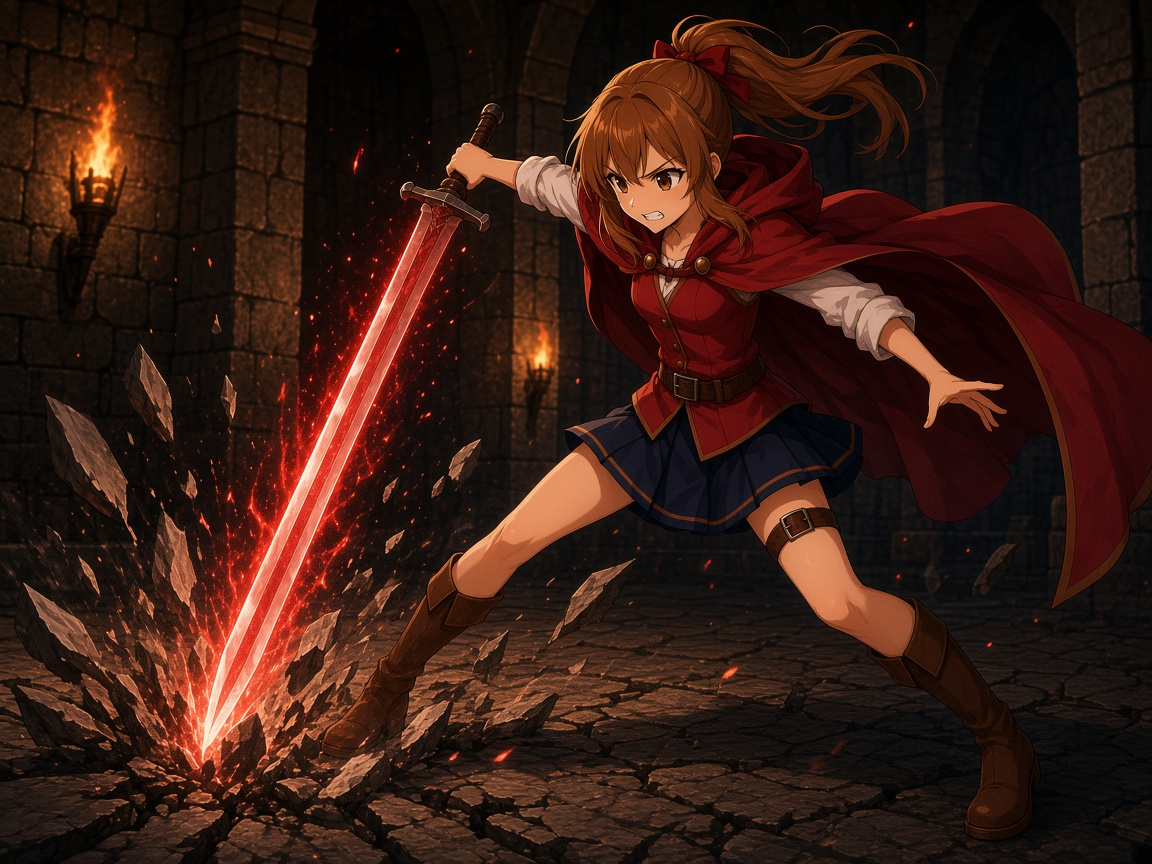
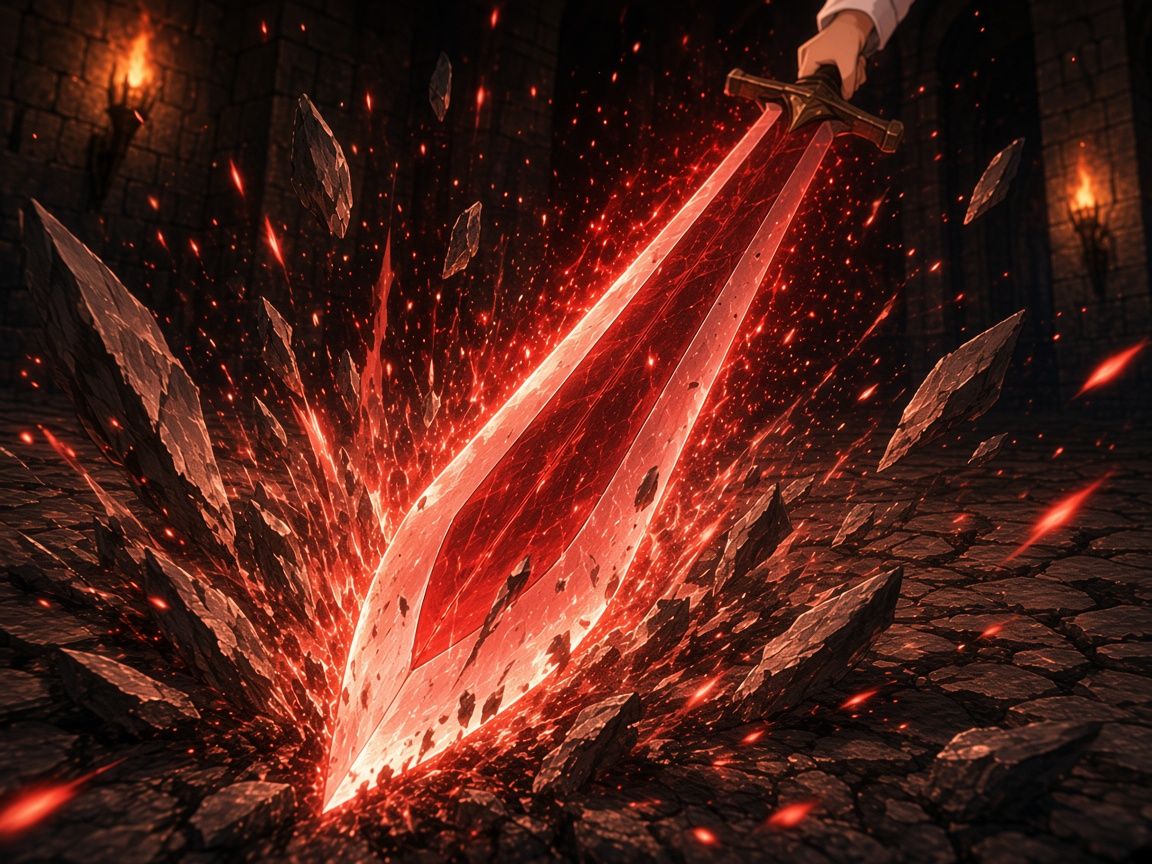
マナの数字をさらに右へ1px、1px大きくする。ビッグアタックの絵も試作に合わせる。

diff --git a/index.html b/index.html
@@ -5279,11 +5279,11 @@
       pointer-events: none;
     }
     .card .card-fit .cost {
-      left: 11.198cqw;
+      left: 11.328cqw;
       top: 11.400cqw;
       transform: translate(-50%, -50%);
-      width: 8.520cqw;
-      height: 8.520cqw;
+      width: 8.651cqw;
+      height: 8.651cqw;
       display: grid;
       place-items: center;
       line-height: 1;
@@ -5294,7 +5294,7 @@
       box-shadow: none;
       color: #fffef8;
       font-family: "Source Han Serif", "源ノ明朝", "Noto Serif JP", "Yu Mincho", serif;
-      font-size: 7.320cqw;
+      font-size: 7.451cqw;
       font-weight: 900;
       -webkit-text-stroke: 0;
       text-shadow: 0 1px 0 #140c08, 0 0 2px #140c08;
@@ -10264,7 +10264,7 @@
       超集中: "card-ultra-focus-v6.jpg?v=1",
       シールドアタック: "card-shield-attack.jpg?v=2",
       キック: "card-kick-leg.jpg?v=2",
-      ビッグアタック: "card-big-attack-smash.jpg?v=1",
+      ビッグアタック: "card-big-attack-smash.jpg?v=2",
       クイックステップ: "card-quick-step.jpg?v=2",
       魔法のパリィ: "card-magic-parry.jpg?v=1",
       盾削ぎ: "card-shield-shave.jpg?v=1",
